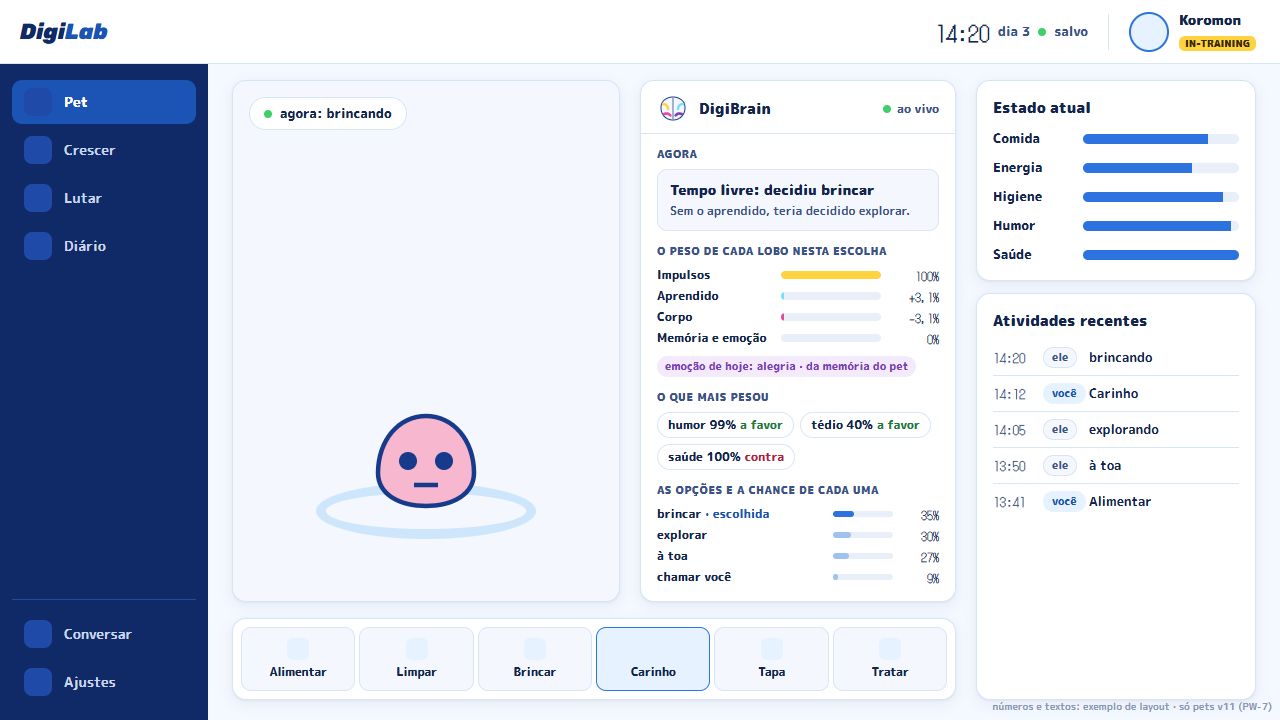
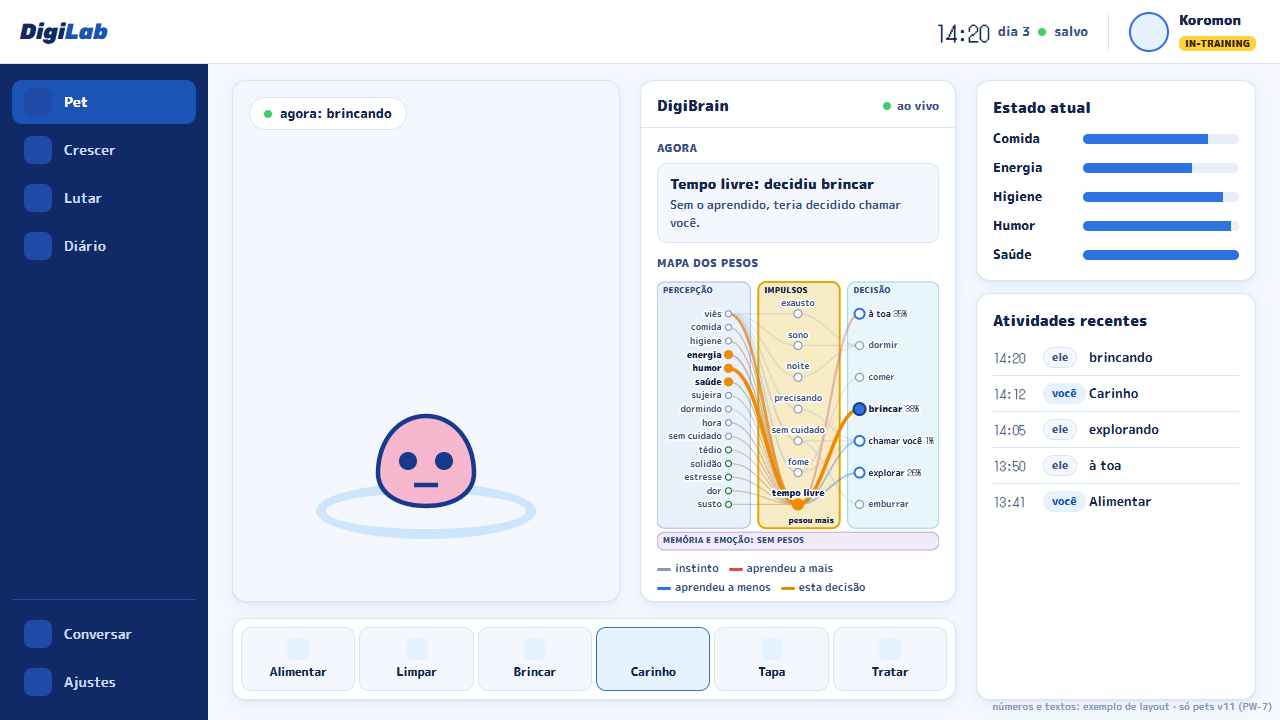
DigiBrain, mapa dos pesos: as pranchas DigiBrainDesktop e DigiBrain390 com o mapa acendendo, com capturas

Changed region(s): [[0.5, 0.1222, 0.75, 0.825], [0.6875, 0.1222, 0.75, 0.1833]]

diff --git a/docs/estilo_up/pranchas/DigiBrain390.html b/docs/estilo_up/pranchas/DigiBrain390.html
@@ -68,6 +68,29 @@ body{margin:0;width:390px;background:var(--dl-bg)}
 .ult li{display:grid;grid-template-columns:48px 1fr;gap:6px;font-size:13px;font-weight:700;padding:4px 0}
 .lcd{font-family:var(--dl-f-lcd);font-weight:400;color:var(--dl-text-2)}
 .nota{margin:0;font-size:10px;color:var(--dl-muted);font-weight:700}
+
+/* ---------- o mapa dos pesos (o componente MapaPesos): uma aresta por peso, entrada -> regra -> acao; acende so na decisao, sem animar */
+.mp{display:block;width:100%;height:auto;font-family:var(--dl-f-texto)}
+.mp-reg rect{fill:var(--c);fill-opacity:.10;stroke:var(--c);stroke-opacity:.45;stroke-width:1}
+.mp-reg text{font-size:8px;font-weight:900;letter-spacing:.3px;text-transform:uppercase;fill:var(--dl-text-2)}
+.mp-reg--percepcao{--c:var(--dl-action)}.mp-reg--impulsos{--c:var(--dl-highlight-press)}.mp-reg--decisao{--c:#1AA7C9}.mp-reg--memoria_emocao{--c:var(--dl-dark)}
+.mp-dest rect{fill-opacity:.22;stroke-opacity:1;stroke-width:2}
+.mp-dest text{fill:var(--dl-text)}
+.mp-reg .mp-mais-peso{font-size:8px;fill:var(--dl-text);text-transform:none;letter-spacing:0}
+.mp-pesos path,.mp-acesas path{fill:none;stroke-linecap:round}
+.mp-prior{stroke:var(--dl-muted);stroke-opacity:.5}.mp-mais{stroke:#E34948}.mp-menos{stroke:#2A78D6}
+.mp-pesos--fundo{opacity:.4}
+.mp-acesas path{stroke:#F08A00}.mp-acesas .mp-neg{stroke-dasharray:3 2}
+.mp-no circle{fill:var(--dl-surface);stroke:var(--dl-muted);stroke-width:1.2}
+.mp-no text{font-size:9px;font-weight:700;fill:var(--dl-text-2);paint-order:stroke;stroke:var(--dl-surface);stroke-width:3px;stroke-linejoin:round}
+.mp-corpo circle{stroke:var(--dl-ok-edge)}
+.mp-lit circle{fill:#F08A00;stroke:#F08A00}.mp-lit text{font-weight:900;fill:var(--dl-text)}
+.mp-cand circle{stroke:var(--dl-action);stroke-width:2}.mp-cand text{fill:var(--dl-text)}
+.mp-esc circle{fill:var(--dl-action);stroke:var(--dl-navy)}.mp-esc text{font-weight:900}
+.mp-pct{font-family:var(--dl-f-lcd);font-weight:400}
+.mp-leg{display:flex;flex-wrap:wrap;gap:2px 10px;list-style:none;margin:6px 0 0;padding:0;font-size:11px;font-weight:700;color:var(--dl-text-2)}
+.mp-leg i{display:inline-block;width:14px;height:3px;border-radius:2px;vertical-align:middle;margin-right:4px;background:var(--c)}
+.mp-nota{margin:4px 0 0;font-size:11px;font-weight:700;color:var(--dl-text-2)}
 </style>
 </head>
 <body>
@@ -92,27 +115,30 @@ body{margin:0;width:390px;background:var(--dl-bg)}
   <section class="folha" role="dialog" aria-labelledby="db-tit">
     <span class="alca"></span>
     <div class="folha-cab">
-      <svg width="32" height="28" viewBox="0 0 64 56" aria-label="o cérebro A (ícone estático)"><path d="M32 4C20 4 8 11 8 26c0 13 10 24 24 24s24-11 24-24C56 11 44 4 32 4z" fill="#F4F8FE" stroke="#173A8A" stroke-width="2"/><path d="M32 6v42" stroke="#173A8A" stroke-width="1.5"/><path d="M12 18c6 0 10 4 10 10" fill="none" stroke="#FFD23F" stroke-width="5" stroke-linecap="round"/><path d="M52 18c-6 0-10 4-10 10" fill="none" stroke="#6FE3FF" stroke-width="5" stroke-linecap="round"/><path d="M14 38c5-2 10-1 13 3" fill="none" stroke="#E5489F" stroke-width="5" stroke-linecap="round"/><path d="M50 38c-5-2-10-1-13 3" fill="none" stroke="#7B3FB8" stroke-width="5" stroke-linecap="round"/></svg>
       <h2 id="db-tit">DigiBrain</h2>
       <span class="selo"><i></i>ao vivo</span>
       <span class="fechar" aria-label="Fechar">×</span>
     </div>
     <div class="rola">
       <div><p class="sec-tit">Agora</p>
-        <div class="agora-box"><b>Tempo livre: decidiu brincar</b><small>Sem o aprendido, teria decidido explorar.</small></div></div>
+        <div class="agora-box"><b>Tempo livre: decidiu brincar</b><small>Sem o aprendido, teria decidido chamar você.</small></div></div>
+      <div><p class="sec-tit">Mapa dos pesos</p>
+        <div id="mapa"></div>
+        <ul class="mp-leg"><li><i style="--c:var(--dl-muted)"></i>instinto</li><li><i style="--c:#E34948"></i>aprendeu a mais</li><li><i style="--c:#2A78D6"></i>aprendeu a menos</li><li><i style="--c:#F08A00"></i>esta decisão</li></ul>
+        <p class="mp-nota">Cada traço é um peso do pet, da entrada à ação, passando pela regra; a espessura é o tamanho do peso.</p></div>
       <div><p class="sec-tit">O peso de cada lobo nesta escolha</p>
-        <div class="barra"><span>Impulsos</span><span class="trilho"><b style="--v:100%;--c:#FFD23F"></b></span><em>100%</em></div>
-        <div class="barra"><span>Aprendido</span><span class="trilho"><b style="--v:3%;--c:#6FE3FF"></b></span><em>+3,1%</em></div>
-        <div class="barra"><span>Corpo</span><span class="trilho"><b class="neg" style="--v:3%"></b></span><em>−3,1%</em></div>
+        <div class="barra"><span>Impulsos</span><span class="trilho"><b style="--v:96%;--c:#FFD23F"></b></span><em>96%</em></div>
+        <div class="barra"><span>Aprendido</span><span class="trilho"><b style="--v:4%;--c:#6FE3FF"></b></span><em>+4,0%</em></div>
+        <div class="barra"><span>Corpo</span><span class="trilho"><b style="--v:1%;--c:#3FCF6A"></b></span><em>+0,4%</em></div>
         <div class="barra"><span>Memória e emoção</span><span class="trilho"><b style="--v:0%;--c:#7B3FB8"></b></span><em>0%</em></div>
         <span class="emo">emoção de hoje: alegria · da memória do pet</span></div>
       <div><p class="sec-tit">O que mais pesou</p>
-        <div class="chips"><span class="chip">humor 99% <span class="s">a favor</span></span><span class="chip">tédio 40% <span class="s">a favor</span></span><span class="chip">saúde 100% <span class="s menos">contra</span></span></div></div>
+        <div class="chips"><span class="chip">humor 98% <span class="s">a favor</span></span><span class="chip">energia 46% <span class="s">a favor</span></span><span class="chip">saúde 100% <span class="s">a favor</span></span></div></div>
       <div><p class="sec-tit">As opções e a chance de cada uma</p>
-        <div class="opc esc"><span>brincar</span><span class="trilho"><b style="--v:35%"></b></span><em>35%</em></div>
-        <div class="opc"><span>explorar</span><span class="trilho"><b style="--v:30%"></b></span><em>30%</em></div>
-        <div class="opc"><span>à toa</span><span class="trilho"><b style="--v:27%"></b></span><em>27%</em></div>
-        <div class="opc"><span>chamar você</span><span class="trilho"><b style="--v:9%"></b></span><em>9%</em></div></div>
+        <div class="opc esc"><span>brincar</span><span class="trilho"><b style="--v:38%"></b></span><em>38%</em></div>
+        <div class="opc"><span>explorar</span><span class="trilho"><b style="--v:26%"></b></span><em>26%</em></div>
+        <div class="opc"><span>à toa</span><span class="trilho"><b style="--v:35%"></b></span><em>35%</em></div>
+        <div class="opc"><span>chamar você</span><span class="trilho"><b style="--v:1%"></b></span><em>1%</em></div></div>
       <div><p class="sec-tit">O que aprendeu desde que nasceu</p>
         <div class="apr"><span>mais à toa do que o instinto</span><em>+0,96</em><span>menos chamar você</span><em>−0,86</em><span>menos explorar</span><em>−0,79</em></div></div>
       <div><p class="sec-tit">Últimas ações</p>
@@ -121,5 +147,74 @@ body{margin:0;width:390px;background:var(--dl-bg)}
     </div>
   </section>
 </div>
+<script>
+const EX_ARESTAS=[{"regra":"sono_exaustao","acao":"dormir","entrada":"vies","espessura":1.0,"aprendido":0.0},{"regra":"sono_continuar","acao":"dormir","entrada":"vies","espessura":1.0,"aprendido":0.0},{"regra":"sono_noite","acao":"dormir","entrada":"vies","espessura":1.0,"aprendido":0.0},{"regra":"pedido_necessidade","acao":"chamar_atencao","entrada":"vies","espessura":1.0,"aprendido":0.0},{"regra":"abandono","acao":"chamar_atencao","entrada":"vies","espessura":1.0,"aprendido":0.0},{"regra":"abandono","acao":"emburrar","entrada":"vies","espessura":1.0,"aprendido":0.0},{"regra":"fome_moderada","acao":"comer","entrada":"vies","espessura":1.0,"aprendido":0.0},{"regra":"fome_moderada","acao":"chamar_atencao","entrada":"vies","espessura":1.0,"aprendido":0.0},{"regra":"tempo_livre","acao":"ocioso","entrada":"vies","espessura":1.7908185977368003,"aprendido":0.012939453125},{"regra":"tempo_livre","acao":"ocioso","entrada":"fome","espessura":0.3801726581436387,"aprendido":0.009033203125},{"regra":"tempo_livre","acao":"ocioso","entrada":"higiene","espessura":0.369754986443726,"aprendido":0.008544921875},{"regra":"tempo_livre","acao":"ocioso","entrada":"energia","espessura":0.2538762001448738,"aprendido":0.0040283203125},{"regra":"tempo_livre","acao":"ocioso","entrada":"humor","espessura":0.45714808869774354,"aprendido":0.0130615234375},{"regra":"tempo_livre","acao":"ocioso","entrada":"saude","espessura":0.4550068680800324,"aprendido":0.012939453125},{"regra":"tempo_livre","acao":"ocioso","entrada":"sujeira","espessura":0.21194781197266463,"aprendido":0.0028076171875},{"regra":"tempo_livre","acao":"ocioso","entrada":"dormindo","espessura":0.08267972847076846,"aprendido":-0.00042724609375},{"regra":"tempo_livre","acao":"ocioso","entrada":"hora","espessura":0.3915613776919271,"aprendido":0.00958251953125},{"regra":"tempo_livre","acao":"ocioso","entrada":"ticks_sem_cuidado","espessura":0.08838834764831845,"aprendido":0.00048828125},{"regra":"tempo_livre","acao":"brincar","entrada":"vies","espessura":1.0373870420436144,"aprendido":0.0047607421875},{"regra":"tempo_livre","acao":"brincar","entrada":"fome","espessura":0.15934435979977452,"aprendido":0.0015869140625},{"regra":"tempo_livre","acao":"brincar","entrada":"higiene","espessura":0.23593232610221093,"aprendido":0.00347900390625},{"regra":"tempo_livre","acao":"brincar","entrada":"energia","espessura":0.3217384419058438,"aprendido":0.0064697265625},{"regra":"tempo_livre","acao":"brincar","entrada":"humor","espessura":1.7486043541922227,"aprendido":0.00360107421875},{"regra":"tempo_livre","acao":"brincar","entrada":"saude","espessura":0.27599252707274524,"aprendido":0.0047607421875},{"regra":"tempo_livre","acao":"brincar","entrada":"sujeira","espessura":0.03125,"aprendido":-6.103515625e-05},{"regra":"tempo_livre","acao":"brincar","entrada":"dormindo","espessura":0.125,"aprendido":0.0009765625},{"regra":"tempo_livre","acao":"brincar","entrada":"hora","espessura":0.10825317547305482,"aprendido":0.000732421875},{"regra":"tempo_livre","acao":"brincar","entrada":"ticks_sem_cuidado","espessura":0.23799290955824715,"aprendido":0.0035400390625},{"regra":"tempo_livre","acao":"chamar_atencao","entrada":"vies","espessura":0.9228014412645875,"aprendido":-0.00927734375},{"regra":"tempo_livre","acao":"chamar_atencao","entrada":"fome","espessura":0.2460627460628691,"aprendido":-0.0037841796875},{"regra":"tempo_livre","acao":"chamar_atencao","entrada":"higiene","espessura":0.240035804620894,"aprendido":-0.00360107421875},{"regra":"tempo_livre","acao":"chamar_atencao","entrada":"energia","espessura":0.4739297152532219,"aprendido":-0.0140380859375},{"regra":"tempo_livre","acao":"chamar_atencao","entrada":"humor","espessura":0.375,"aprendido":-0.0087890625},{"regra":"tempo_livre","acao":"chamar_atencao","entrada":"saude","espessura":0.385275875185561,"aprendido":-0.00927734375},{"regra":"tempo_livre","acao":"chamar_atencao","entrada":"sujeira","espessura":0.15934435979977452,"aprendido":-0.0015869140625},{"regra":"tempo_livre","acao":"chamar_atencao","entrada":"dormindo","espessura":0.08267972847076846,"aprendido":-0.00042724609375},{"regra":"tempo_livre","acao":"chamar_atencao","entrada":"hora","espessura":0.42042575147105343,"aprendido":-0.01104736328125},{"regra":"tempo_livre","acao":"chamar_atencao","entrada":"ticks_sem_cuidado","espessura":0.21875,"aprendido":-0.00299072265625},{"regra":"tempo_livre","acao":"explorar","entrada":"vies","espessura":1.3513592694024783,"aprendido":-0.0108642578125},{"regra":"tempo_livre","acao":"explorar","entrada":"fome","espessura":0.3247595264191645,"aprendido":-0.006591796875},{"regra":"tempo_livre","acao":"explorar","entrada":"higiene","espessura":0.3521696146745201,"aprendido":-0.00775146484375},{"regra":"tempo_livre","acao":"explorar","entrada":"energia","espessura":1.3919410907075054,"aprendido":-0.00390625},{"regra":"tempo_livre","acao":"explorar","entrada":"humor","espessura":0.40745015032516557,"aprendido":-0.0103759765625},{"regra":"tempo_livre","acao":"explorar","entrada":"saude","espessura":0.41692700200394794,"aprendido":-0.0108642578125},{"regra":"tempo_livre","acao":"explorar","entrada":"sujeira","espessura":0.15934435979977452,"aprendido":-0.0015869140625},{"regra":"tempo_livre","acao":"explorar","entrada":"dormindo","espessura":0.07654655446197431,"aprendido":-0.0003662109375},{"regra":"tempo_livre","acao":"explorar","entrada":"hora","espessura":0.2829807855667943,"aprendido":-0.0050048828125},{"regra":"tempo_livre","acao":"explorar","entrada":"ticks_sem_cuidado","espessura":0.2209708691207961,"aprendido":-0.0030517578125},{"regra":"tempo_livre","acao":"ocioso","entrada":"tedio","espessura":0.0625,"aprendido":0.000244140625},{"regra":"tempo_livre","acao":"ocioso","entrada":"solidao","espessura":0.03125,"aprendido":-6.103515625e-05},{"regra":"tempo_livre","acao":"ocioso","entrada":"estresse","espessura":0.07654655446197431,"aprendido":-0.0003662109375},{"regra":"tempo_livre","acao":"ocioso","entrada":"dor","espessura":0.0625,"aprendido":0.000244140625},{"regra":"tempo_livre","acao":"ocioso","entrada":"susto","espessura":0.0625,"aprendido":0.000244140625},{"regra":"tempo_livre","acao":"brincar","entrada":"tedio","espessura":0.11692679333668567,"aprendido":0.0008544921875},{"regra":"tempo_livre","acao":"brincar","entrada":"solidao","espessura":0.23593232610221093,"aprendido":0.00347900390625},{"regra":"tempo_livre","acao":"brincar","entrada":"estresse","espessura":0.21650635094610965,"aprendido":0.0029296875},{"regra":"tempo_livre","acao":"brincar","entrada":"dor","espessura":0.125,"aprendido":0.0009765625},{"regra":"tempo_livre","acao":"brincar","entrada":"susto","espessura":0.08838834764831845,"aprendido":0.00048828125},{"regra":"tempo_livre","acao":"chamar_atencao","entrada":"tedio","espessura":0.08838834764831845,"aprendido":-0.00048828125},{"regra":"tempo_livre","acao":"chamar_atencao","entrada":"solidao","espessura":0.184877493221863,"aprendido":-0.00213623046875},{"regra":"tempo_livre","acao":"chamar_atencao","entrada":"estresse","espessura":0.2688226645950821,"aprendido":-0.0045166015625},{"regra":"tempo_livre","acao":"chamar_atencao","entrada":"dor","espessura":0.1926379375927805,"aprendido":-0.0023193359375},{"regra":"tempo_livre","acao":"chamar_atencao","entrada":"susto","espessura":0.15309310892394862,"aprendido":-0.00146484375},{"regra":"tempo_livre","acao":"explorar","entrada":"tedio","espessura":0.13258252147247765,"aprendido":-0.0010986328125},{"regra":"tempo_livre","acao":"explorar","entrada":"solidao","espessura":0.2275034340400162,"aprendido":-0.00323486328125},{"regra":"tempo_livre","acao":"explorar","entrada":"estresse","espessura":0.14320549046737,"aprendido":-0.00128173828125},{"regra":"tempo_livre","acao":"explorar","entrada":"dor","espessura":0.09375,"aprendido":-0.00054931640625},{"regra":"tempo_livre","acao":"explorar","entrada":"susto","espessura":0.07654655446197431,"aprendido":-0.0003662109375}];
+const EX_ACESAS={"acao":"brincar","arestas":[{"entrada":"vies","forca":0.5938843669984021,"termo":1.0400390625},{"entrada":"fome","forca":0.02114433221525312,"termo":0.001318359375},{"entrada":"higiene","forca":0.08962359434862904,"termo":0.0236859375},{"entrada":"energia","forca":0.12130313750717533,"termo":0.043390028211805556},{"entrada":"humor","forca":1.0,"termo":2.9488037109375},{"entrada":"saude","forca":0.11652497484004473,"termo":0.0400390625},{"entrada":"sujeira","forca":0.023019033279672193,"termo":-0.0015625},{"entrada":"hora","forca":0.06407150916455942,"termo":-0.012105305989583332},{"entrada":"ticks_sem_cuidado","forca":0.03900414548535955,"termo":0.004486083984375},{"entrada":"tedio","forca":0.014114563997902356,"termo":0.00058746337890625},{"entrada":"solidao","forca":0.05344494584530367,"termo":0.0084228515625},{"entrada":"estresse","forca":0.03729162762611105,"termo":0.004100799560546875},{"entrada":"dor","forca":0.02452638737165106,"termo":0.001773834228515625},{"entrada":"susto","forca":0.019368951236241973,"termo":0.00110626220703125}],"lobo_decisivo":"impulsos","n":262,"regra":"tempo_livre"};
+const EX_LEITURA={"acao":"brincar","barras":{"corpo":0.0038964125755194985,"decisao":0.03973953102582593,"impulsos":0.9563640563986545,"memoria_emocao":0.0,"piso":0.0},"chances":[{"acao":"ocioso","chance":0.3488536509549079},{"acao":"explorar","chance":0.2613075300282142},{"acao":"brincar","chance":0.38399112302896304},{"acao":"chamar_atencao","chance":0.0058476959879148705}],"n":262,"percepcao":[{"entrada":"humor","termo":2.9488037109375,"x":0.975},{"entrada":"energia","termo":0.043390028211805556,"x":0.45805555555555555},{"entrada":"saude","termo":0.0400390625,"x":1.0}],"quem_decidiu":{"acao_instinto":"chamar_atencao","escolha":true,"mudou":true},"regra":"tempo_livre"};
+const EX_RECEPTORES=["tedio", "solidao", "estresse", "dor", "susto"];
+/* o desenho do mapa dos pesos (o mesmo do componente MapaPesos em web/app/src/componentes/MapaPesos.tsx): colunas fixas, geradas da
+   estrutura do cerebro A (as entradas, os receptores novos, as regras, as acoes); os numeros sao os do gabarito (vida v11, semente 101) */
+function svgMapa(arestas, acesas, leitura, receptores) {
+  const ENTRADAS = ["vies", "fome", "higiene", "energia", "humor", "saude", "sujeira", "dormindo", "hora", "ticks_sem_cuidado"];
+  const REGRAS = ["sono_exaustao", "sono_continuar", "sono_noite", "pedido_necessidade", "abandono", "fome_moderada", "tempo_livre"];
+  const ACOES = ["ocioso", "dormir", "comer", "brincar", "chamar_atencao", "explorar", "emburrar"];
+  const TXT_E = { vies: "viés", fome: "comida", higiene: "higiene", energia: "energia", humor: "humor", saude: "saúde", sujeira: "sujeira",
+    dormindo: "dormindo", hora: "hora", ticks_sem_cuidado: "sem cuidado", tedio: "tédio", curiosidade: "curiosidade", solidao: "solidão",
+    estresse: "estresse", dor: "dor", susto: "susto", vontade: "vontade", conforto: "conforto" };
+  const TXT_R = { sono_exaustao: "exausto", sono_continuar: "sono", sono_noite: "noite", pedido_necessidade: "precisando",
+    abandono: "sem cuidado", fome_moderada: "fome", tempo_livre: "tempo livre" };
+  const TXT_A = { ocioso: "à toa", dormir: "dormir", comer: "comer", brincar: "brincar", chamar_atencao: "chamar você", explorar: "explorar",
+    emburrar: "emburrar" };
+  const W = 284, XE = 72, XR = 142, XA = 204, Y0 = 36, SPAN = 192, YB = Y0 + SPAN + 20;
+  const entradas = [...ENTRADAS, ...receptores];
+  const ye = {}; entradas.forEach((e, i) => ye[e] = Y0 + i * SPAN / (entradas.length - 1));
+  const yr = {}; REGRAS.forEach((r, i) => yr[r] = Y0 + i * SPAN / 6);
+  const ya = {}; ACOES.forEach((a, i) => ya[a] = Y0 + i * SPAN / 6);
+  const YM = YB + 8, H = YM + 22;
+  const f = v => Math.round(v * 10) / 10;
+  const curva = (e, r, a) => `M${XE} ${f(ye[e])}C${XE + 34} ${f(ye[e])} ${XR - 30} ${f(yr[r])} ${XR} ${f(yr[r])}C${XR + 26} ${f(yr[r])} ${XA - 26} ${f(ya[a])} ${XA} ${f(ya[a])}`;
+  const aceso = acesas !== null;
+  const top = new Set(aceso ? leitura.percepcao.map(p => p.entrada) : []);
+  const chance = {}; if (aceso) leitura.chances.forEach(c => chance[c.acao] = c.chance);
+  const dest = aceso ? acesas.lobo_decisivo : null;
+  let s = `<svg class="mp" viewBox="0 0 ${W} ${H}" role="img" aria-label="Mapa dos pesos">`;
+  const regiao = (lobo, x, y, w, h, txt) => s += `<g class="mp-reg mp-reg--${lobo}${dest === lobo ? " mp-dest" : ""}"><rect x="${x}" y="${y}" width="${w}" height="${h}" rx="8"/>`
+    + `<text x="${x + 6}" y="${y + 11}">${txt}</text>${dest === lobo ? `<text class="mp-mais-peso" x="${x + w - 6}" y="${y + h - 5}" text-anchor="end">pesou mais</text>` : ""}</g>`;
+  regiao("percepcao", 0, 4, 94, YB, "percepção");
+  regiao("impulsos", 102, 4, 82, YB, "impulsos");
+  regiao("decisao", 192, 4, 92, YB, "decisão");
+  regiao("memoria_emocao", 0, YM, 284, 18, "memória e emoção: sem pesos");
+  s += `<g class="mp-pesos${aceso ? " mp-pesos--fundo" : ""}">`;
+  for (const a of arestas) {
+    const cls = a.aprendido > 0 ? "mais" : a.aprendido < 0 ? "menos" : "prior";
+    const op = cls === "prior" ? 1 : 0.35 + 0.65 * Math.sqrt(Math.abs(a.aprendido));
+    s += `<path class="mp-${cls}" d="${curva(a.entrada, a.regra, a.acao)}" stroke-width="${f(0.4 + a.espessura * 1.4)}"${cls === "prior" ? "" : ` stroke-opacity="${f(op)}"`}${a.w < 0 ? ' stroke-dasharray="3 2"' : ""}/>`;
+  }
+  s += `</g>`;
+  if (aceso) {
+    s += `<g class="mp-acesas">`;
+    for (const x of acesas.arestas) {
+      s += `<path class="${x.termo < 0 ? "mp-neg" : ""}" d="${curva(x.entrada, acesas.regra, acesas.acao)}" stroke-width="${f(0.6 + 3 * x.forca)}" stroke-opacity="${f(0.35 + 0.65 * x.forca)}"/>`;
+    }
+    s += `</g>`;
+  }
+  s += `<g class="mp-nos">`;
+  entradas.forEach((e, i) => {
+    const corpo = i >= ENTRADAS.length, lit = top.has(e);
+    s += `<g class="mp-no mp-ent${corpo ? " mp-corpo" : ""}${lit ? " mp-lit" : ""}"><circle cx="${XE}" cy="${f(ye[e])}" r="${lit ? 4 : 3}"/><text x="${XE - 7}" y="${f(ye[e] + 3)}" text-anchor="end">${TXT_E[e] ?? e}</text></g>`;
+  });
+  REGRAS.forEach(r => {
+    const lit = aceso && r === acesas.regra;
+    s += `<g class="mp-no mp-regra${lit ? " mp-lit" : ""}"><circle cx="${XR}" cy="${f(yr[r])}" r="${lit ? 5.5 : 4}"/><text x="${XR}" y="${f(yr[r] - 8)}" text-anchor="middle">${TXT_R[r]}</text></g>`;
+  });
+  ACOES.forEach(a => {
+    const cand = a in chance, esc = aceso && a === acesas.acao;
+    s += `<g class="mp-no mp-acao${cand ? " mp-cand" : ""}${esc ? " mp-esc" : ""}"><circle cx="${XA}" cy="${f(ya[a])}" r="${esc ? 6 : cand ? 5 : 4}"/><text x="${XA + 9}" y="${f(ya[a] + 3)}">${TXT_A[a]}${cand ? ` <tspan class="mp-pct">${Math.round(chance[a] * 100)}%</tspan>` : ""}</text></g>`;
+  });
+  s += `</g></svg>`;
+  return s;
+}
+document.getElementById("mapa").innerHTML = svgMapa(EX_ARESTAS, EX_ACESAS, EX_LEITURA, EX_RECEPTORES);
+</script>
 </body>
 </html>

diff --git a/docs/estilo_up/pranchas/DigiBrainDesktop.html b/docs/estilo_up/pranchas/DigiBrainDesktop.html
@@ -84,6 +84,29 @@ body{margin:0;width:1280px;background:var(--dl-bg)}
 .ult{list-style:none;margin:0;padding:0}
 .ult li{display:grid;grid-template-columns:44px 1fr;gap:6px;font-size:12px;font-weight:700;padding:3px 0}
 .nota{position:absolute;right:8px;bottom:6px;font-size:10px;color:var(--dl-muted);font-weight:700}
+
+/* ---------- o mapa dos pesos (o componente MapaPesos): uma aresta por peso, entrada -> regra -> acao; acende so na decisao, sem animar */
+.mp{display:block;width:100%;height:auto;font-family:var(--dl-f-texto)}
+.mp-reg rect{fill:var(--c);fill-opacity:.10;stroke:var(--c);stroke-opacity:.45;stroke-width:1}
+.mp-reg text{font-size:8px;font-weight:900;letter-spacing:.3px;text-transform:uppercase;fill:var(--dl-text-2)}
+.mp-reg--percepcao{--c:var(--dl-action)}.mp-reg--impulsos{--c:var(--dl-highlight-press)}.mp-reg--decisao{--c:#1AA7C9}.mp-reg--memoria_emocao{--c:var(--dl-dark)}
+.mp-dest rect{fill-opacity:.22;stroke-opacity:1;stroke-width:2}
+.mp-dest text{fill:var(--dl-text)}
+.mp-reg .mp-mais-peso{font-size:8px;fill:var(--dl-text);text-transform:none;letter-spacing:0}
+.mp-pesos path,.mp-acesas path{fill:none;stroke-linecap:round}
+.mp-prior{stroke:var(--dl-muted);stroke-opacity:.5}.mp-mais{stroke:#E34948}.mp-menos{stroke:#2A78D6}
+.mp-pesos--fundo{opacity:.4}
+.mp-acesas path{stroke:#F08A00}.mp-acesas .mp-neg{stroke-dasharray:3 2}
+.mp-no circle{fill:var(--dl-surface);stroke:var(--dl-muted);stroke-width:1.2}
+.mp-no text{font-size:9px;font-weight:700;fill:var(--dl-text-2);paint-order:stroke;stroke:var(--dl-surface);stroke-width:3px;stroke-linejoin:round}
+.mp-corpo circle{stroke:var(--dl-ok-edge)}
+.mp-lit circle{fill:#F08A00;stroke:#F08A00}.mp-lit text{font-weight:900;fill:var(--dl-text)}
+.mp-cand circle{stroke:var(--dl-action);stroke-width:2}.mp-cand text{fill:var(--dl-text)}
+.mp-esc circle{fill:var(--dl-action);stroke:var(--dl-navy)}.mp-esc text{font-weight:900}
+.mp-pct{font-family:var(--dl-f-lcd);font-weight:400}
+.mp-leg{display:flex;flex-wrap:wrap;gap:2px 10px;list-style:none;margin:6px 0 0;padding:0;font-size:11px;font-weight:700;color:var(--dl-text-2)}
+.mp-leg i{display:inline-block;width:14px;height:3px;border-radius:2px;vertical-align:middle;margin-right:4px;background:var(--c)}
+.mp-nota{margin:4px 0 0;font-size:11px;font-weight:700;color:var(--dl-text-2)}
 </style>
 </head>
 <body>
@@ -106,35 +129,38 @@ body{margin:0;width:1280px;background:var(--dl-bg)}
 
     <section class="card brain" aria-labelledby="db-tit">
       <div class="brain-cab">
-        <svg width="32" height="28" viewBox="0 0 64 56" aria-label="o cérebro A (ícone estático)"><path d="M32 4C20 4 8 11 8 26c0 13 10 24 24 24s24-11 24-24C56 11 44 4 32 4z" fill="#F4F8FE" stroke="#173A8A" stroke-width="2"/><path d="M32 6v42" stroke="#173A8A" stroke-width="1.5"/><path d="M12 18c6 0 10 4 10 10" fill="none" stroke="#FFD23F" stroke-width="5" stroke-linecap="round"/><path d="M52 18c-6 0-10 4-10 10" fill="none" stroke="#6FE3FF" stroke-width="5" stroke-linecap="round"/><path d="M14 38c5-2 10-1 13 3" fill="none" stroke="#E5489F" stroke-width="5" stroke-linecap="round"/><path d="M50 38c-5-2-10-1-13 3" fill="none" stroke="#7B3FB8" stroke-width="5" stroke-linecap="round"/></svg>
         <h2 id="db-tit">DigiBrain</h2>
         <span class="selo"><i></i>ao vivo</span>
       </div>
       <div class="brain-rola">
         <div>
           <p class="sec-tit">Agora</p>
-          <div class="agora-box"><b>Tempo livre: decidiu brincar</b><small>Sem o aprendido, teria decidido explorar.</small></div>
+          <div class="agora-box"><b>Tempo livre: decidiu brincar</b><small>Sem o aprendido, teria decidido chamar você.</small></div>
         </div>
+        <div><p class="sec-tit">Mapa dos pesos</p>
+          <div id="mapa"></div>
+          <ul class="mp-leg"><li><i style="--c:var(--dl-muted)"></i>instinto</li><li><i style="--c:#E34948"></i>aprendeu a mais</li><li><i style="--c:#2A78D6"></i>aprendeu a menos</li><li><i style="--c:#F08A00"></i>esta decisão</li></ul>
+          <p class="mp-nota">Cada traço é um peso do pet, da entrada à ação, passando pela regra; a espessura é o tamanho do peso.</p></div>
         <div>
           <p class="sec-tit">O peso de cada lobo nesta escolha</p>
           <div class="lobos">
-              <div class="barra"><span>Impulsos</span><span class="trilho"><b style="--v:100%;--c:#FFD23F"></b></span><em>100%</em></div>
-              <div class="barra"><span>Aprendido</span><span class="trilho"><b style="--v:3%;--c:#6FE3FF"></b></span><em>+3,1%</em></div>
-              <div class="barra"><span>Corpo</span><span class="trilho"><b class="neg" style="--v:3%"></b></span><em>−3,1%</em></div>
+              <div class="barra"><span>Impulsos</span><span class="trilho"><b style="--v:96%;--c:#FFD23F"></b></span><em>96%</em></div>
+              <div class="barra"><span>Aprendido</span><span class="trilho"><b style="--v:4%;--c:#6FE3FF"></b></span><em>+4,0%</em></div>
+              <div class="barra"><span>Corpo</span><span class="trilho"><b style="--v:1%;--c:#3FCF6A"></b></span><em>+0,4%</em></div>
               <div class="barra"><span>Memória e emoção</span><span class="trilho"><b style="--v:0%;--c:#7B3FB8"></b></span><em>0%</em></div>
           </div>
           <span class="emo">emoção de hoje: alegria · da memória do pet</span>
         </div>
         <div>
           <p class="sec-tit">O que mais pesou</p>
-          <div class="chips"><span class="chip">humor 99% <span class="s">a favor</span></span><span class="chip">tédio 40% <span class="s">a favor</span></span><span class="chip">saúde 100% <span class="s menos">contra</span></span></div>
+          <div class="chips"><span class="chip">humor 98% <span class="s">a favor</span></span><span class="chip">energia 46% <span class="s">a favor</span></span><span class="chip">saúde 100% <span class="s">a favor</span></span></div>
         </div>
         <div>
           <p class="sec-tit">As opções e a chance de cada uma</p>
-          <div class="opc esc"><span>brincar</span><span class="trilho"><b style="--v:35%"></b></span><em>35%</em></div>
-          <div class="opc"><span>explorar</span><span class="trilho"><b style="--v:30%"></b></span><em>30%</em></div>
-          <div class="opc"><span>à toa</span><span class="trilho"><b style="--v:27%"></b></span><em>27%</em></div>
-          <div class="opc"><span>chamar você</span><span class="trilho"><b style="--v:9%"></b></span><em>9%</em></div>
+          <div class="opc esc"><span>brincar</span><span class="trilho"><b style="--v:38%"></b></span><em>38%</em></div>
+          <div class="opc"><span>explorar</span><span class="trilho"><b style="--v:26%"></b></span><em>26%</em></div>
+          <div class="opc"><span>à toa</span><span class="trilho"><b style="--v:35%"></b></span><em>35%</em></div>
+          <div class="opc"><span>chamar você</span><span class="trilho"><b style="--v:1%"></b></span><em>1%</em></div>
         </div>
         <div>
           <p class="sec-tit">O que aprendeu desde que nasceu</p>
@@ -162,5 +188,74 @@ body{margin:0;width:1280px;background:var(--dl-bg)}
   </main>
   <span class="nota">números e textos: exemplo de layout · só pets v11 (PW-7)</span>
 </div>
+<script>
+const EX_ARESTAS=[{"regra":"sono_exaustao","acao":"dormir","entrada":"vies","espessura":1.0,"aprendido":0.0},{"regra":"sono_continuar","acao":"dormir","entrada":"vies","espessura":1.0,"aprendido":0.0},{"regra":"sono_noite","acao":"dormir","entrada":"vies","espessura":1.0,"aprendido":0.0},{"regra":"pedido_necessidade","acao":"chamar_atencao","entrada":"vies","espessura":1.0,"aprendido":0.0},{"regra":"abandono","acao":"chamar_atencao","entrada":"vies","espessura":1.0,"aprendido":0.0},{"regra":"abandono","acao":"emburrar","entrada":"vies","espessura":1.0,"aprendido":0.0},{"regra":"fome_moderada","acao":"comer","entrada":"vies","espessura":1.0,"aprendido":0.0},{"regra":"fome_moderada","acao":"chamar_atencao","entrada":"vies","espessura":1.0,"aprendido":0.0},{"regra":"tempo_livre","acao":"ocioso","entrada":"vies","espessura":1.7908185977368003,"aprendido":0.012939453125},{"regra":"tempo_livre","acao":"ocioso","entrada":"fome","espessura":0.3801726581436387,"aprendido":0.009033203125},{"regra":"tempo_livre","acao":"ocioso","entrada":"higiene","espessura":0.369754986443726,"aprendido":0.008544921875},{"regra":"tempo_livre","acao":"ocioso","entrada":"energia","espessura":0.2538762001448738,"aprendido":0.0040283203125},{"regra":"tempo_livre","acao":"ocioso","entrada":"humor","espessura":0.45714808869774354,"aprendido":0.0130615234375},{"regra":"tempo_livre","acao":"ocioso","entrada":"saude","espessura":0.4550068680800324,"aprendido":0.012939453125},{"regra":"tempo_livre","acao":"ocioso","entrada":"sujeira","espessura":0.21194781197266463,"aprendido":0.0028076171875},{"regra":"tempo_livre","acao":"ocioso","entrada":"dormindo","espessura":0.08267972847076846,"aprendido":-0.00042724609375},{"regra":"tempo_livre","acao":"ocioso","entrada":"hora","espessura":0.3915613776919271,"aprendido":0.00958251953125},{"regra":"tempo_livre","acao":"ocioso","entrada":"ticks_sem_cuidado","espessura":0.08838834764831845,"aprendido":0.00048828125},{"regra":"tempo_livre","acao":"brincar","entrada":"vies","espessura":1.0373870420436144,"aprendido":0.0047607421875},{"regra":"tempo_livre","acao":"brincar","entrada":"fome","espessura":0.15934435979977452,"aprendido":0.0015869140625},{"regra":"tempo_livre","acao":"brincar","entrada":"higiene","espessura":0.23593232610221093,"aprendido":0.00347900390625},{"regra":"tempo_livre","acao":"brincar","entrada":"energia","espessura":0.3217384419058438,"aprendido":0.0064697265625},{"regra":"tempo_livre","acao":"brincar","entrada":"humor","espessura":1.7486043541922227,"aprendido":0.00360107421875},{"regra":"tempo_livre","acao":"brincar","entrada":"saude","espessura":0.27599252707274524,"aprendido":0.0047607421875},{"regra":"tempo_livre","acao":"brincar","entrada":"sujeira","espessura":0.03125,"aprendido":-6.103515625e-05},{"regra":"tempo_livre","acao":"brincar","entrada":"dormindo","espessura":0.125,"aprendido":0.0009765625},{"regra":"tempo_livre","acao":"brincar","entrada":"hora","espessura":0.10825317547305482,"aprendido":0.000732421875},{"regra":"tempo_livre","acao":"brincar","entrada":"ticks_sem_cuidado","espessura":0.23799290955824715,"aprendido":0.0035400390625},{"regra":"tempo_livre","acao":"chamar_atencao","entrada":"vies","espessura":0.9228014412645875,"aprendido":-0.00927734375},{"regra":"tempo_livre","acao":"chamar_atencao","entrada":"fome","espessura":0.2460627460628691,"aprendido":-0.0037841796875},{"regra":"tempo_livre","acao":"chamar_atencao","entrada":"higiene","espessura":0.240035804620894,"aprendido":-0.00360107421875},{"regra":"tempo_livre","acao":"chamar_atencao","entrada":"energia","espessura":0.4739297152532219,"aprendido":-0.0140380859375},{"regra":"tempo_livre","acao":"chamar_atencao","entrada":"humor","espessura":0.375,"aprendido":-0.0087890625},{"regra":"tempo_livre","acao":"chamar_atencao","entrada":"saude","espessura":0.385275875185561,"aprendido":-0.00927734375},{"regra":"tempo_livre","acao":"chamar_atencao","entrada":"sujeira","espessura":0.15934435979977452,"aprendido":-0.0015869140625},{"regra":"tempo_livre","acao":"chamar_atencao","entrada":"dormindo","espessura":0.08267972847076846,"aprendido":-0.00042724609375},{"regra":"tempo_livre","acao":"chamar_atencao","entrada":"hora","espessura":0.42042575147105343,"aprendido":-0.01104736328125},{"regra":"tempo_livre","acao":"chamar_atencao","entrada":"ticks_sem_cuidado","espessura":0.21875,"aprendido":-0.00299072265625},{"regra":"tempo_livre","acao":"explorar","entrada":"vies","espessura":1.3513592694024783,"aprendido":-0.0108642578125},{"regra":"tempo_livre","acao":"explorar","entrada":"fome","espessura":0.3247595264191645,"aprendido":-0.006591796875},{"regra":"tempo_livre","acao":"explorar","entrada":"higiene","espessura":0.3521696146745201,"aprendido":-0.00775146484375},{"regra":"tempo_livre","acao":"explorar","entrada":"energia","espessura":1.3919410907075054,"aprendido":-0.00390625},{"regra":"tempo_livre","acao":"explorar","entrada":"humor","espessura":0.40745015032516557,"aprendido":-0.0103759765625},{"regra":"tempo_livre","acao":"explorar","entrada":"saude","espessura":0.41692700200394794,"aprendido":-0.0108642578125},{"regra":"tempo_livre","acao":"explorar","entrada":"sujeira","espessura":0.15934435979977452,"aprendido":-0.0015869140625},{"regra":"tempo_livre","acao":"explorar","entrada":"dormindo","espessura":0.07654655446197431,"aprendido":-0.0003662109375},{"regra":"tempo_livre","acao":"explorar","entrada":"hora","espessura":0.2829807855667943,"aprendido":-0.0050048828125},{"regra":"tempo_livre","acao":"explorar","entrada":"ticks_sem_cuidado","espessura":0.2209708691207961,"aprendido":-0.0030517578125},{"regra":"tempo_livre","acao":"ocioso","entrada":"tedio","espessura":0.0625,"aprendido":0.000244140625},{"regra":"tempo_livre","acao":"ocioso","entrada":"solidao","espessura":0.03125,"aprendido":-6.103515625e-05},{"regra":"tempo_livre","acao":"ocioso","entrada":"estresse","espessura":0.07654655446197431,"aprendido":-0.0003662109375},{"regra":"tempo_livre","acao":"ocioso","entrada":"dor","espessura":0.0625,"aprendido":0.000244140625},{"regra":"tempo_livre","acao":"ocioso","entrada":"susto","espessura":0.0625,"aprendido":0.000244140625},{"regra":"tempo_livre","acao":"brincar","entrada":"tedio","espessura":0.11692679333668567,"aprendido":0.0008544921875},{"regra":"tempo_livre","acao":"brincar","entrada":"solidao","espessura":0.23593232610221093,"aprendido":0.00347900390625},{"regra":"tempo_livre","acao":"brincar","entrada":"estresse","espessura":0.21650635094610965,"aprendido":0.0029296875},{"regra":"tempo_livre","acao":"brincar","entrada":"dor","espessura":0.125,"aprendido":0.0009765625},{"regra":"tempo_livre","acao":"brincar","entrada":"susto","espessura":0.08838834764831845,"aprendido":0.00048828125},{"regra":"tempo_livre","acao":"chamar_atencao","entrada":"tedio","espessura":0.08838834764831845,"aprendido":-0.00048828125},{"regra":"tempo_livre","acao":"chamar_atencao","entrada":"solidao","espessura":0.184877493221863,"aprendido":-0.00213623046875},{"regra":"tempo_livre","acao":"chamar_atencao","entrada":"estresse","espessura":0.2688226645950821,"aprendido":-0.0045166015625},{"regra":"tempo_livre","acao":"chamar_atencao","entrada":"dor","espessura":0.1926379375927805,"aprendido":-0.0023193359375},{"regra":"tempo_livre","acao":"chamar_atencao","entrada":"susto","espessura":0.15309310892394862,"aprendido":-0.00146484375},{"regra":"tempo_livre","acao":"explorar","entrada":"tedio","espessura":0.13258252147247765,"aprendido":-0.0010986328125},{"regra":"tempo_livre","acao":"explorar","entrada":"solidao","espessura":0.2275034340400162,"aprendido":-0.00323486328125},{"regra":"tempo_livre","acao":"explorar","entrada":"estresse","espessura":0.14320549046737,"aprendido":-0.00128173828125},{"regra":"tempo_livre","acao":"explorar","entrada":"dor","espessura":0.09375,"aprendido":-0.00054931640625},{"regra":"tempo_livre","acao":"explorar","entrada":"susto","espessura":0.07654655446197431,"aprendido":-0.0003662109375}];
+const EX_ACESAS={"acao":"brincar","arestas":[{"entrada":"vies","forca":0.5938843669984021,"termo":1.0400390625},{"entrada":"fome","forca":0.02114433221525312,"termo":0.001318359375},{"entrada":"higiene","forca":0.08962359434862904,"termo":0.0236859375},{"entrada":"energia","forca":0.12130313750717533,"termo":0.043390028211805556},{"entrada":"humor","forca":1.0,"termo":2.9488037109375},{"entrada":"saude","forca":0.11652497484004473,"termo":0.0400390625},{"entrada":"sujeira","forca":0.023019033279672193,"termo":-0.0015625},{"entrada":"hora","forca":0.06407150916455942,"termo":-0.012105305989583332},{"entrada":"ticks_sem_cuidado","forca":0.03900414548535955,"termo":0.004486083984375},{"entrada":"tedio","forca":0.014114563997902356,"termo":0.00058746337890625},{"entrada":"solidao","forca":0.05344494584530367,"termo":0.0084228515625},{"entrada":"estresse","forca":0.03729162762611105,"termo":0.004100799560546875},{"entrada":"dor","forca":0.02452638737165106,"termo":0.001773834228515625},{"entrada":"susto","forca":0.019368951236241973,"termo":0.00110626220703125}],"lobo_decisivo":"impulsos","n":262,"regra":"tempo_livre"};
+const EX_LEITURA={"acao":"brincar","barras":{"corpo":0.0038964125755194985,"decisao":0.03973953102582593,"impulsos":0.9563640563986545,"memoria_emocao":0.0,"piso":0.0},"chances":[{"acao":"ocioso","chance":0.3488536509549079},{"acao":"explorar","chance":0.2613075300282142},{"acao":"brincar","chance":0.38399112302896304},{"acao":"chamar_atencao","chance":0.0058476959879148705}],"n":262,"percepcao":[{"entrada":"humor","termo":2.9488037109375,"x":0.975},{"entrada":"energia","termo":0.043390028211805556,"x":0.45805555555555555},{"entrada":"saude","termo":0.0400390625,"x":1.0}],"quem_decidiu":{"acao_instinto":"chamar_atencao","escolha":true,"mudou":true},"regra":"tempo_livre"};
+const EX_RECEPTORES=["tedio", "solidao", "estresse", "dor", "susto"];
+/* o desenho do mapa dos pesos (o mesmo do componente MapaPesos em web/app/src/componentes/MapaPesos.tsx): colunas fixas, geradas da
+   estrutura do cerebro A (as entradas, os receptores novos, as regras, as acoes); os numeros sao os do gabarito (vida v11, semente 101) */
+function svgMapa(arestas, acesas, leitura, receptores) {
+  const ENTRADAS = ["vies", "fome", "higiene", "energia", "humor", "saude", "sujeira", "dormindo", "hora", "ticks_sem_cuidado"];
+  const REGRAS = ["sono_exaustao", "sono_continuar", "sono_noite", "pedido_necessidade", "abandono", "fome_moderada", "tempo_livre"];
+  const ACOES = ["ocioso", "dormir", "comer", "brincar", "chamar_atencao", "explorar", "emburrar"];
+  const TXT_E = { vies: "viés", fome: "comida", higiene: "higiene", energia: "energia", humor: "humor", saude: "saúde", sujeira: "sujeira",
+    dormindo: "dormindo", hora: "hora", ticks_sem_cuidado: "sem cuidado", tedio: "tédio", curiosidade: "curiosidade", solidao: "solidão",
+    estresse: "estresse", dor: "dor", susto: "susto", vontade: "vontade", conforto: "conforto" };
+  const TXT_R = { sono_exaustao: "exausto", sono_continuar: "sono", sono_noite: "noite", pedido_necessidade: "precisando",
+    abandono: "sem cuidado", fome_moderada: "fome", tempo_livre: "tempo livre" };
+  const TXT_A = { ocioso: "à toa", dormir: "dormir", comer: "comer", brincar: "brincar", chamar_atencao: "chamar você", explorar: "explorar",
+    emburrar: "emburrar" };
+  const W = 284, XE = 72, XR = 142, XA = 204, Y0 = 36, SPAN = 192, YB = Y0 + SPAN + 20;
+  const entradas = [...ENTRADAS, ...receptores];
+  const ye = {}; entradas.forEach((e, i) => ye[e] = Y0 + i * SPAN / (entradas.length - 1));
+  const yr = {}; REGRAS.forEach((r, i) => yr[r] = Y0 + i * SPAN / 6);
+  const ya = {}; ACOES.forEach((a, i) => ya[a] = Y0 + i * SPAN / 6);
+  const YM = YB + 8, H = YM + 22;
+  const f = v => Math.round(v * 10) / 10;
+  const curva = (e, r, a) => `M${XE} ${f(ye[e])}C${XE + 34} ${f(ye[e])} ${XR - 30} ${f(yr[r])} ${XR} ${f(yr[r])}C${XR + 26} ${f(yr[r])} ${XA - 26} ${f(ya[a])} ${XA} ${f(ya[a])}`;
+  const aceso = acesas !== null;
+  const top = new Set(aceso ? leitura.percepcao.map(p => p.entrada) : []);
+  const chance = {}; if (aceso) leitura.chances.forEach(c => chance[c.acao] = c.chance);
+  const dest = aceso ? acesas.lobo_decisivo : null;
+  let s = `<svg class="mp" viewBox="0 0 ${W} ${H}" role="img" aria-label="Mapa dos pesos">`;
+  const regiao = (lobo, x, y, w, h, txt) => s += `<g class="mp-reg mp-reg--${lobo}${dest === lobo ? " mp-dest" : ""}"><rect x="${x}" y="${y}" width="${w}" height="${h}" rx="8"/>`
+    + `<text x="${x + 6}" y="${y + 11}">${txt}</text>${dest === lobo ? `<text class="mp-mais-peso" x="${x + w - 6}" y="${y + h - 5}" text-anchor="end">pesou mais</text>` : ""}</g>`;
+  regiao("percepcao", 0, 4, 94, YB, "percepção");
+  regiao("impulsos", 102, 4, 82, YB, "impulsos");
+  regiao("decisao", 192, 4, 92, YB, "decisão");
+  regiao("memoria_emocao", 0, YM, 284, 18, "memória e emoção: sem pesos");
+  s += `<g class="mp-pesos${aceso ? " mp-pesos--fundo" : ""}">`;
+  for (const a of arestas) {
+    const cls = a.aprendido > 0 ? "mais" : a.aprendido < 0 ? "menos" : "prior";
+    const op = cls === "prior" ? 1 : 0.35 + 0.65 * Math.sqrt(Math.abs(a.aprendido));
+    s += `<path class="mp-${cls}" d="${curva(a.entrada, a.regra, a.acao)}" stroke-width="${f(0.4 + a.espessura * 1.4)}"${cls === "prior" ? "" : ` stroke-opacity="${f(op)}"`}${a.w < 0 ? ' stroke-dasharray="3 2"' : ""}/>`;
+  }
+  s += `</g>`;
+  if (aceso) {
+    s += `<g class="mp-acesas">`;
+    for (const x of acesas.arestas) {
+      s += `<path class="${x.termo < 0 ? "mp-neg" : ""}" d="${curva(x.entrada, acesas.regra, acesas.acao)}" stroke-width="${f(0.6 + 3 * x.forca)}" stroke-opacity="${f(0.35 + 0.65 * x.forca)}"/>`;
+    }
+    s += `</g>`;
+  }
+  s += `<g class="mp-nos">`;
+  entradas.forEach((e, i) => {
+    const corpo = i >= ENTRADAS.length, lit = top.has(e);
+    s += `<g class="mp-no mp-ent${corpo ? " mp-corpo" : ""}${lit ? " mp-lit" : ""}"><circle cx="${XE}" cy="${f(ye[e])}" r="${lit ? 4 : 3}"/><text x="${XE - 7}" y="${f(ye[e] + 3)}" text-anchor="end">${TXT_E[e] ?? e}</text></g>`;
+  });
+  REGRAS.forEach(r => {
+    const lit = aceso && r === acesas.regra;
+    s += `<g class="mp-no mp-regra${lit ? " mp-lit" : ""}"><circle cx="${XR}" cy="${f(yr[r])}" r="${lit ? 5.5 : 4}"/><text x="${XR}" y="${f(yr[r] - 8)}" text-anchor="middle">${TXT_R[r]}</text></g>`;
+  });
+  ACOES.forEach(a => {
+    const cand = a in chance, esc = aceso && a === acesas.acao;
+    s += `<g class="mp-no mp-acao${cand ? " mp-cand" : ""}${esc ? " mp-esc" : ""}"><circle cx="${XA}" cy="${f(ya[a])}" r="${esc ? 6 : cand ? 5 : 4}"/><text x="${XA + 9}" y="${f(ya[a] + 3)}">${TXT_A[a]}${cand ? ` <tspan class="mp-pct">${Math.round(chance[a] * 100)}%</tspan>` : ""}</text></g>`;
+  });
+  s += `</g></svg>`;
+  return s;
+}
+document.getElementById("mapa").innerHTML = svgMapa(EX_ARESTAS, EX_ACESAS, EX_LEITURA, EX_RECEPTORES);
+</script>
 </body>
 </html>

diff --git a/docs/estilo_up/pranchas/README.md b/docs/estilo_up/pranchas/README.md
@@ -20,6 +20,12 @@ números e os textos são exemplo de layout, não dado.
 | `DigiBrainDesktop.html` | 1280×720 | o painel DigiBrain dos pets v11 (etapa 5 do W-PORTE, `docs/TAREFA_V2_W_PORTE_CEREBRO_A.md`, seção 4) na casca da UI-DESKTOP (#328): uma coluna entre o habitat e a coluna de sempre, com o "agora", as barras por lobo, a percepção em lista (PW-5), a emoção como selo à parte (PW-6), as chances, o "o que aprendeu" e as últimas ações; a coluna rola sozinha |
 | `DigiBrain390.html` | 390×844 | o mesmo no celular, numa folha que sobe de baixo, aberta pelo botão "DigiBrain" no canto do palco; o cabeçalho do Pet, com Conversar e Ajustes, não muda |
 
-As duas pranchas do DigiBrain usam as cores pelos tokens `--dl-*` (o app usa os `--ui-*` equivalentes do #328 no desktop). O desenho do
-cérebro é um ícone estático com uma cor por lobo: o connectome (#321) é ferramenta de pesquisa até o J5 (CN-1) e não vai ao jogo, e nada
-no painel anima para fingir atividade. As capturas estão em `capturas/`.
+As duas pranchas do DigiBrain usam as cores pelos tokens `--dl-*` (o app usa os `--ui-*` equivalentes do #328 no desktop). Desde
+2026-10-19 o ícone estático do cabeçalho deu lugar ao **mapa dos pesos**, logo abaixo do "agora": o desenho do connectome do #321
+(`docs/futuro/connectome_cerebro_a.md`, seção 2) em colunas fixas, geradas da estrutura do cérebro A. As regiões são os lobos (percepção,
+impulsos, decisão; a memória e emoção, sem pesos). Cada traço é um peso `w[regra][acao][entrada]`, da entrada à ação, passando pela
+regra: a espessura é √|w|/S, e a cor separa o instinto (cinza) do aprendido a mais (vermelho) e a menos (azul). A cada decisão acendem,
+em laranja, a regra que disparou, os candidatos com a chance, as entradas que mais pesaram e os termos da ação escolhida; a ação
+escolhida e o lobo que pesou mais ficam destacados. Entre duas decisões o mapa fica parado: nada anima para fingir atividade. Os números
+das duas pranchas são os do gabarito (a vida v11 da semente 101, a decisão 262), desenhados pela mesma conta do componente `MapaPesos`.
+No celular o mapa ocupa a largura da folha. As capturas estão em `capturas/`.
